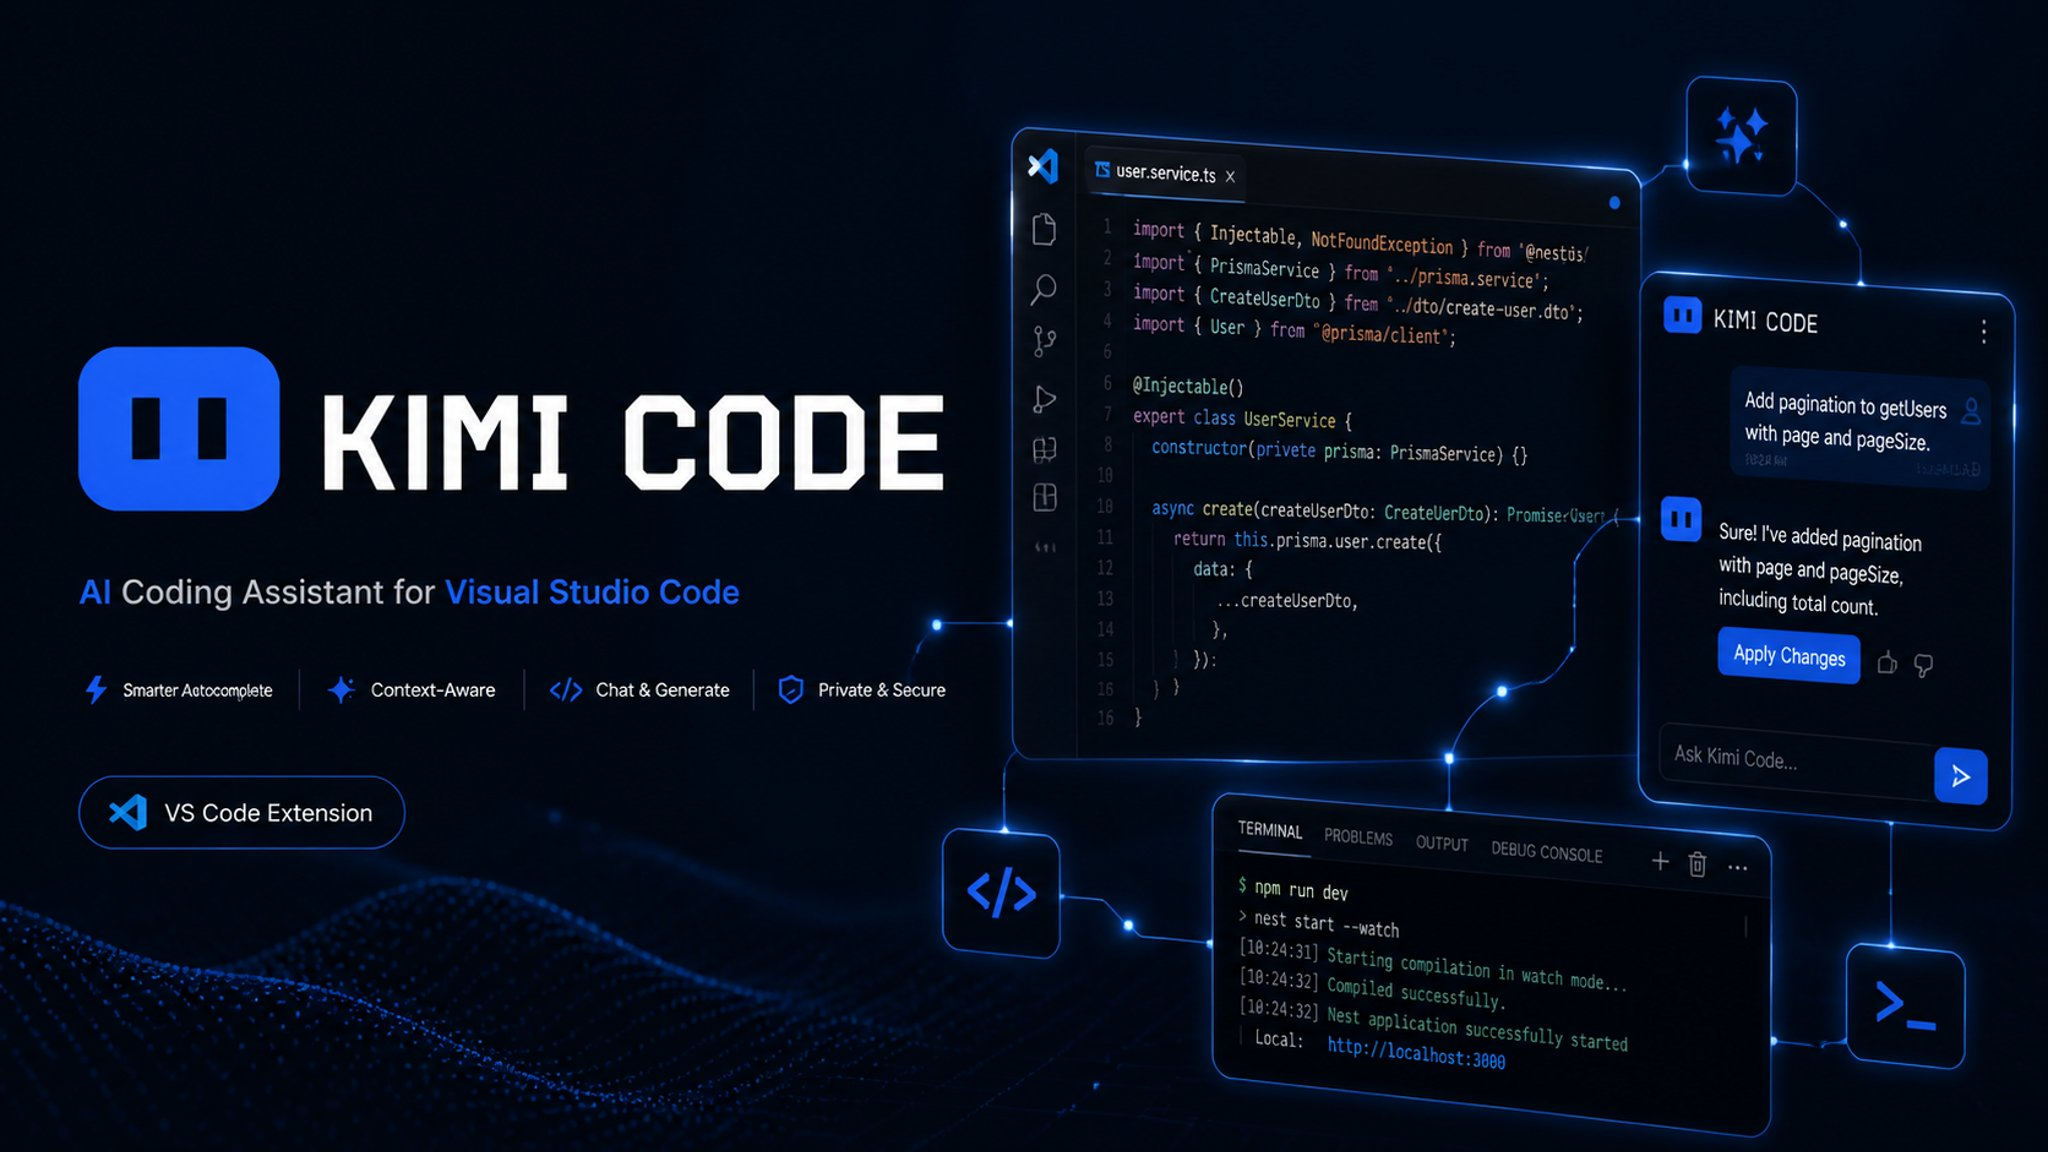
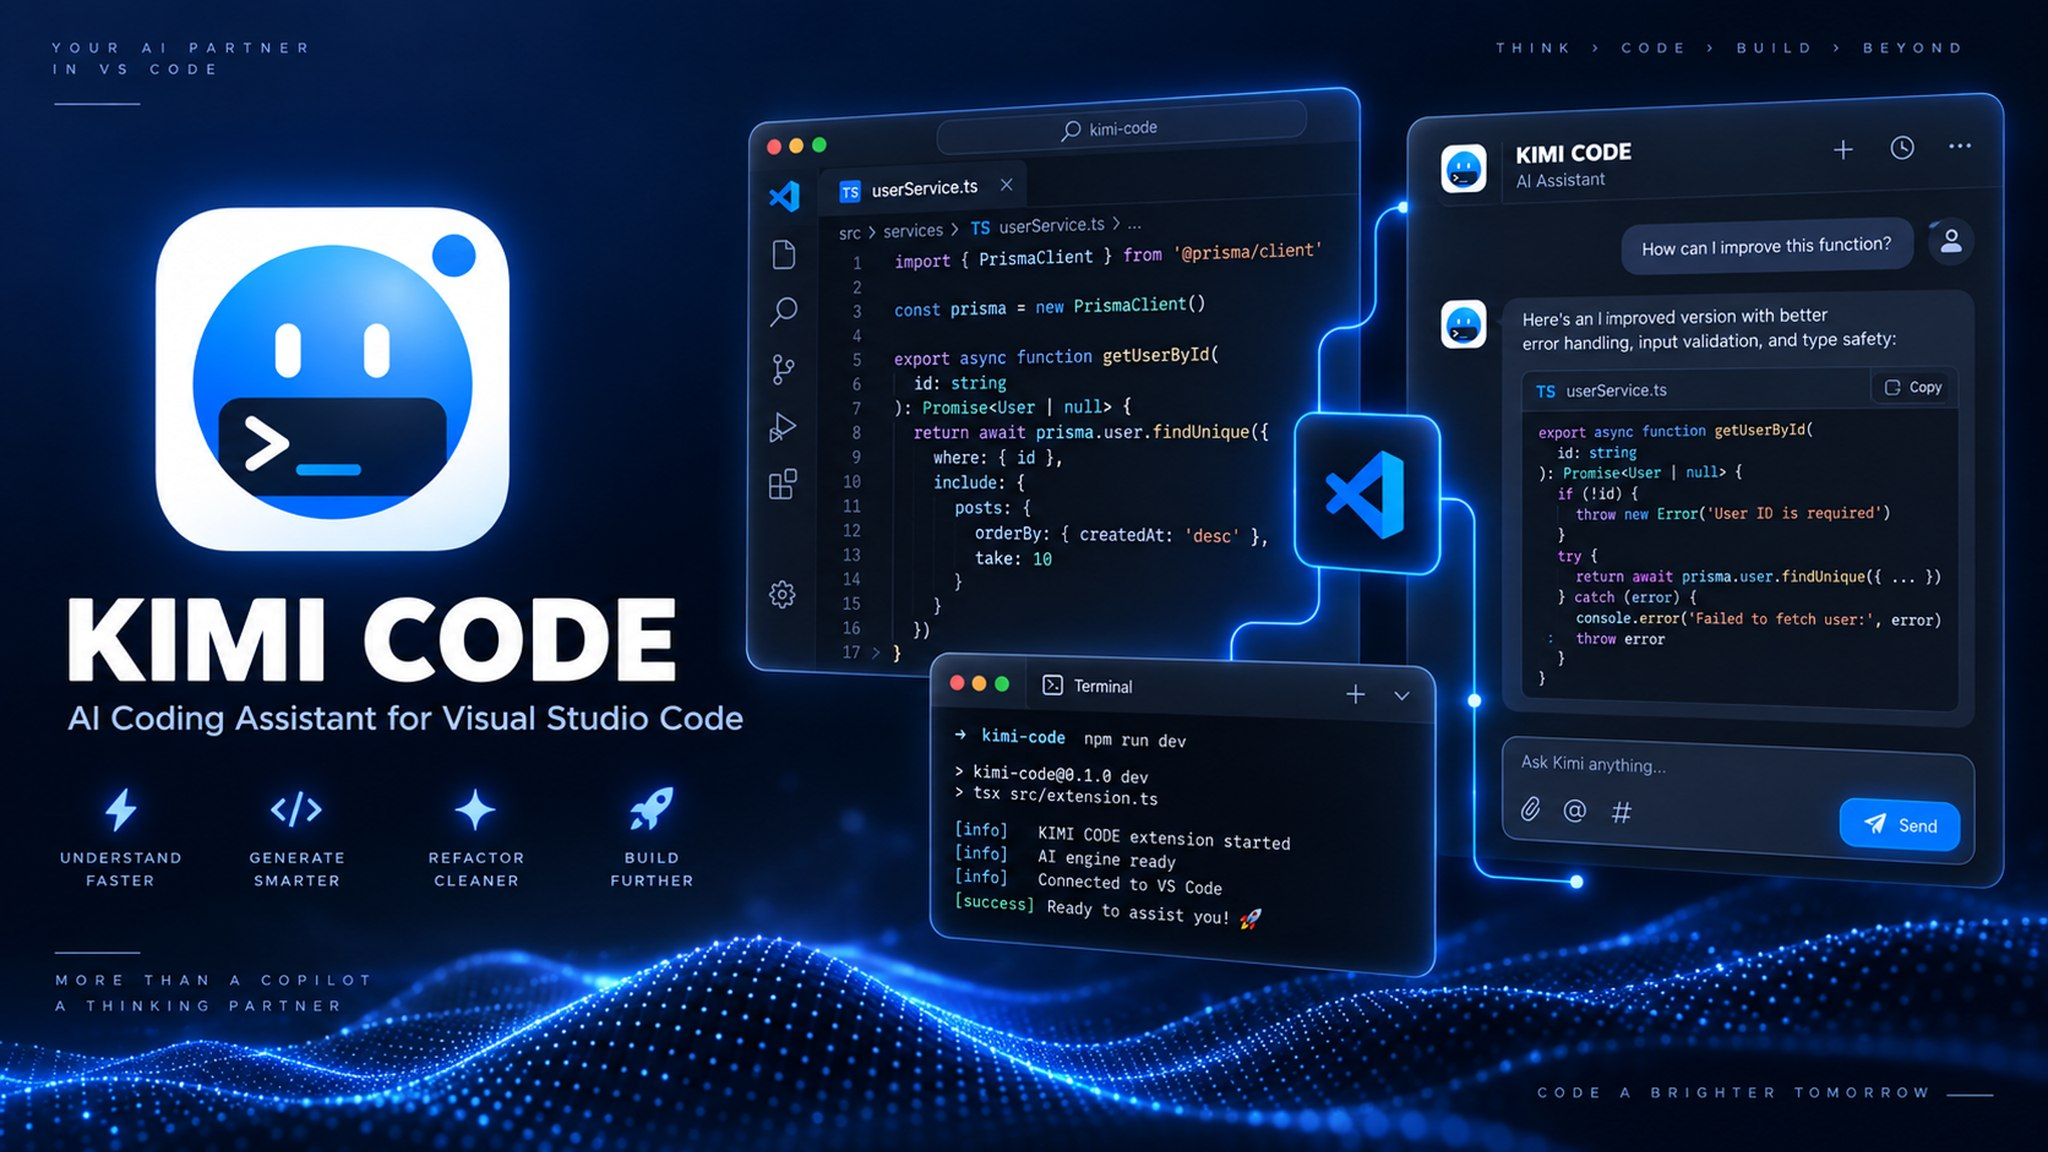
0.9.17: 文档/打包重发——新 README 头图 + 更新记录补充流畅性说明
- docs/images/hero.jpg 换成新品牌 Logo 风格的头图
- CHANGELOG/两份 README 明确写出流畅性改进：动画全面纯 CSS/SVG 化，
  移除 Rive 运行时（webview 包体减小约 8MB，无 WASM、无 canvas 重绘循环）
- .vscodeignore 排除 AGENTS.md，避免本机运维笔记随 vsix 外泄
- 无功能变更

diff --git a/apps/vscode/CHANGELOG.md b/apps/vscode/CHANGELOG.md
@@ -4,17 +4,27 @@
 >
 > *中文:* 本文件只记录本 fork(Kimi Code (Fork))自身的更新,版本号独立编号。官方上游的更新记录请见 [MoonshotAI/kimi-code](https://github.com/MoonshotAI/kimi-code/blob/main/apps/vscode/CHANGELOG.md)。
 
+## 0.9.17(2026-09-20)
+
+1. Docs/packaging re-release: new README hero image matching the current Kimi Code brand logo, and the release notes now explicitly call out the fluency work (all panel animations are pure CSS/SVG; the Rive runtime was removed in 0.9.15 — ~8 MB smaller webview bundle, no WASM, no canvas repaint loop). No functional changes.
+
+*中文:*
+
+1. 文档/打包重发:README 头图换新(新品牌 Logo 风格),更新记录明确补充流畅性说明(面板动画已全面改为纯 CSS/SVG;0.9.15 起移除 Rive 运行时,webview 包体减小约 8MB,无 WebAssembly、无 canvas 重绘循环)。无功能变更
+
 ## 0.9.16(2026-09-20)
 
 1. Ported the desktop app's brand logo (BrandLogo): the chat avatar, panel header, and account fallback avatar now use the desktop's Kimi Code CLI logo — a rounded-square tile (black on light themes, white on dark) with the blue gradient face, eyes, and the tiny `>_` terminal bar — replacing the old flat blue-rectangle Kimi avatar image.
 2. Ported the desktop's eye easter egg: the logo's eyes look around every 16 s and blink every 11 s on their own, and clicking any logo (chat avatar, panel header) makes it blink once. Pure CSS/SVG, honors "reduced motion".
 3. The extension's marketplace icon and activity-bar icon now match the desktop app icon (ported from the desktop build's official `icon.ico` / brand SVG).
+4. Fluency: every animation in the panel is now pure CSS/SVG — 0.9.15 removed the Rive runtime (~8 MB smaller webview bundle, no WASM compilation, no canvas repaint loop), and the new brand logo / working indicator animate at negligible cost. Together with 0.9.12's streaming-render smoothing and long-session freeze fixes, the panel should feel noticeably snappier.
 
 *中文:*
 
 1. 移植桌面端品牌 Logo(BrandLogo):对话头像、面板顶部、账号兜底头像全部改用桌面端 Kimi Code CLI 标志——圆角方块底板(浅色主题黑底、深色主题白底)+ 蓝色渐变圆脸 + 眼睛 + 迷你 `>_` 终端条,替换旧的蓝色圆角矩形头像图片
 2. 移植桌面端彩蛋:Logo 眼睛每 16 秒会左右瞟动、每 11 秒自动眨一次眼,点击任意 Logo(对话头像、面板顶部)会立即眨一次眼。纯 CSS/SVG 实现,尊重系统「减少动态效果」设置
 3. 扩展的市场图标和侧边栏图标改用桌面端官方应用图标(来自桌面端安装包的 `icon.ico` / 品牌 SVG)
+4. 流畅性提升:面板动画已全部改为纯 CSS/SVG 实现——0.9.15 移除了 Rive 运行时(webview 包体减小约 8MB,不再加载 WebAssembly、没有 canvas 重绘循环),新品牌 Logo 与工作指示器的动画开销几乎为零;配合 0.9.12 的流式渲染优化与长对话卡死修复,面板整体更轻快
 
 ## 0.9.15(2026-09-20)
 

diff --git a/README.md b/README.md
@@ -216,17 +216,25 @@ scripts/              # postinstall (node-pty fix)
 
 ## 🕓 更新记录 | Changelog
 
-**2026-09-20（0.9.16 · 桌面端品牌 Logo + 眨眼彩蛋）**：
+**2026-09-20（0.9.17 · 文档/打包重发）**：
+
+README 头图换新（新品牌 Logo 风格），更新记录明确补充流畅性说明；无功能变更
+
+*English:* Docs/packaging re-release: new README hero image, release notes now spell out the fluency work; no functional changes
+
+**2026-09-20（0.9.16 · 桌面端品牌 Logo + 眨眼彩蛋 + 流畅性提升）**：
 
 1. 对话头像、面板顶部、账号兜底头像改用桌面端 Kimi Code CLI 品牌 Logo（圆角方块底板 + 蓝色渐变圆脸 + `>_` 终端条），替换旧的蓝色矩形头像图
 2. 移植桌面端彩蛋：Logo 眼睛每 16 秒左右瞟动、每 11 秒自动眨眼，点击任意 Logo 立即眨一次眼；纯 CSS/SVG，尊重「减少动态效果」
 3. 扩展市场图标与侧边栏图标换成桌面端官方应用图标
+4. 流畅性提升：面板动画已全面改为纯 CSS/SVG 实现——0.9.15 移除 Rive 运行时（webview 包体减小约 8MB，不再加载 WebAssembly、无 canvas 重绘循环），新 Logo 与工作指示器动画开销几乎为零；配合 0.9.12 的流式渲染优化与长对话卡死修复，面板整体更轻快
 
 *English:*
 
 1. Chat avatar, panel header, and account fallback avatar now use the desktop Kimi Code CLI brand logo (rounded tile + blue gradient face + `>_` terminal bar), replacing the old flat avatar image
 2. Ported the desktop easter egg: the logo's eyes glance around every 16 s, auto-blink every 11 s, and blink once when clicked; pure CSS/SVG, honors "reduced motion"
 3. Marketplace and activity-bar icons now match the desktop app icon
+4. Fluency: every panel animation is now pure CSS/SVG — 0.9.15 removed the Rive runtime (~8 MB smaller webview bundle, no WASM, no canvas repaint loop); combined with 0.9.12's streaming-render smoothing and long-session freeze fixes, the panel feels noticeably snappier
 
 **2026-09-20（0.9.15 · 工作指示器对齐桌面端现版）**：
 

diff --git a/apps/vscode/README.md b/apps/vscode/README.md
@@ -212,17 +212,25 @@ scripts/              # postinstall (node-pty fix)
 
 ## 🕓 更新记录 | Changelog
 
-**2026-09-20（0.9.16 · 桌面端品牌 Logo + 眨眼彩蛋）**：
+**2026-09-20（0.9.17 · 文档/打包重发）**：
+
+README 头图换新（新品牌 Logo 风格），更新记录明确补充流畅性说明；无功能变更
+
+*English:* Docs/packaging re-release: new README hero image, release notes now spell out the fluency work; no functional changes
+
+**2026-09-20（0.9.16 · 桌面端品牌 Logo + 眨眼彩蛋 + 流畅性提升）**：
 
 1. 对话头像、面板顶部、账号兜底头像改用桌面端 Kimi Code CLI 品牌 Logo（圆角方块底板 + 蓝色渐变圆脸 + `>_` 终端条），替换旧的蓝色矩形头像图
 2. 移植桌面端彩蛋：Logo 眼睛每 16 秒左右瞟动、每 11 秒自动眨眼，点击任意 Logo 立即眨一次眼；纯 CSS/SVG，尊重「减少动态效果」
 3. 扩展市场图标与侧边栏图标换成桌面端官方应用图标
+4. 流畅性提升：面板动画已全面改为纯 CSS/SVG 实现——0.9.15 移除 Rive 运行时（webview 包体减小约 8MB，不再加载 WebAssembly、无 canvas 重绘循环），新 Logo 与工作指示器动画开销几乎为零；配合 0.9.12 的流式渲染优化与长对话卡死修复，面板整体更轻快
 
 *English:*
 
 1. Chat avatar, panel header, and account fallback avatar now use the desktop Kimi Code CLI brand logo (rounded tile + blue gradient face + `>_` terminal bar), replacing the old flat avatar image
 2. Ported the desktop easter egg: the logo's eyes glance around every 16 s, auto-blink every 11 s, and blink once when clicked; pure CSS/SVG, honors "reduced motion"
 3. Marketplace and activity-bar icons now match the desktop app icon
+4. Fluency: every panel animation is now pure CSS/SVG — 0.9.15 removed the Rive runtime (~8 MB smaller webview bundle, no WASM, no canvas repaint loop); combined with 0.9.12's streaming-render smoothing and long-session freeze fixes, the panel feels noticeably snappier
 
 **2026-09-20（0.9.15 · 工作指示器对齐桌面端现版）**：
 
